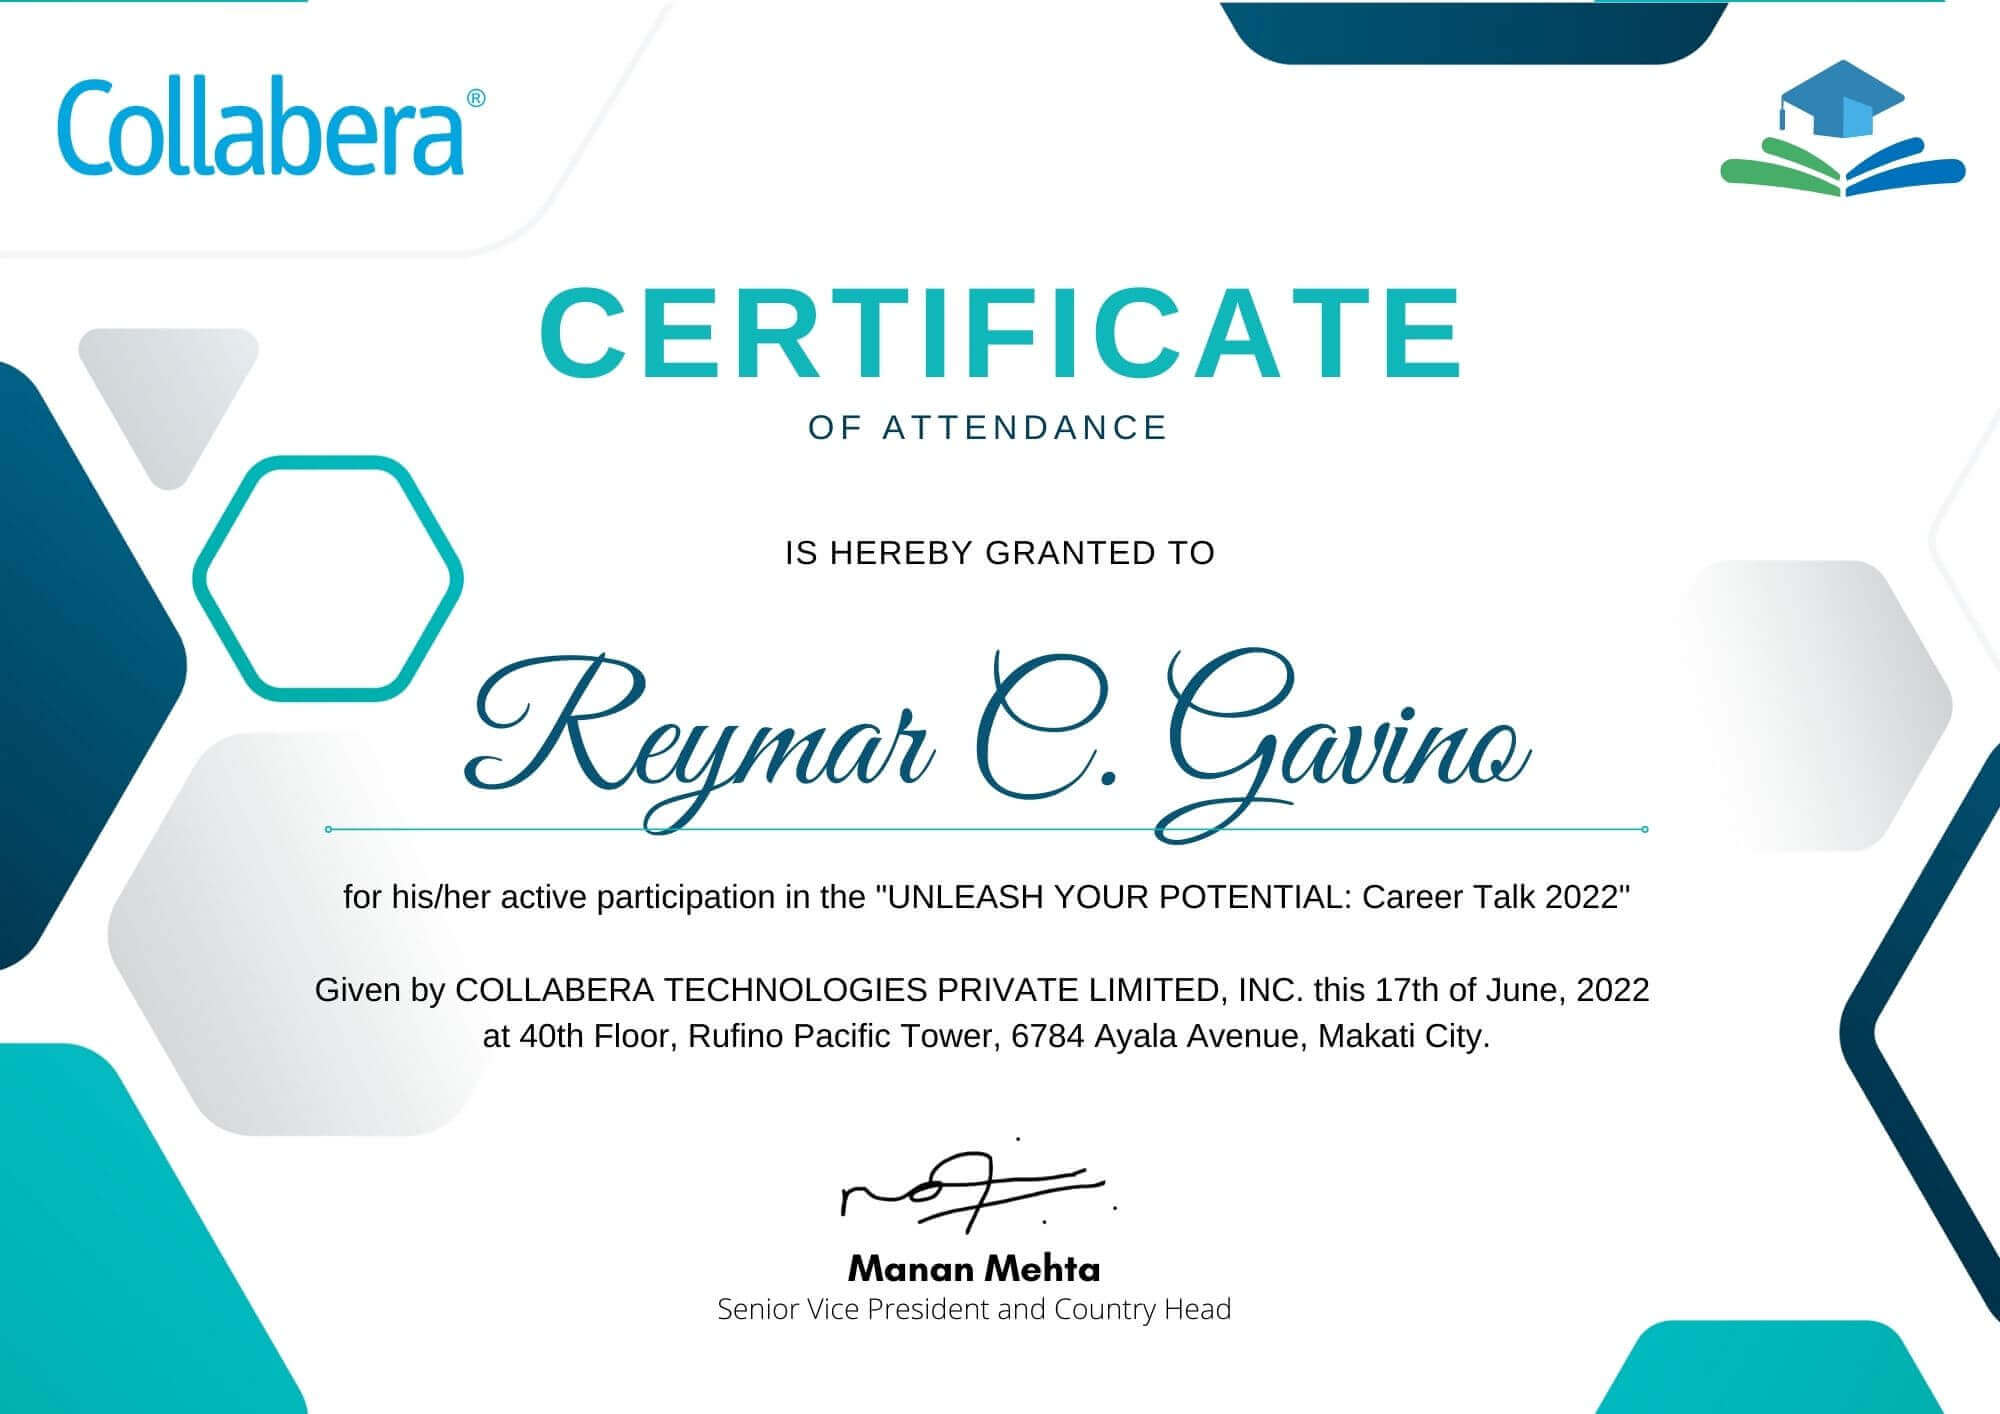
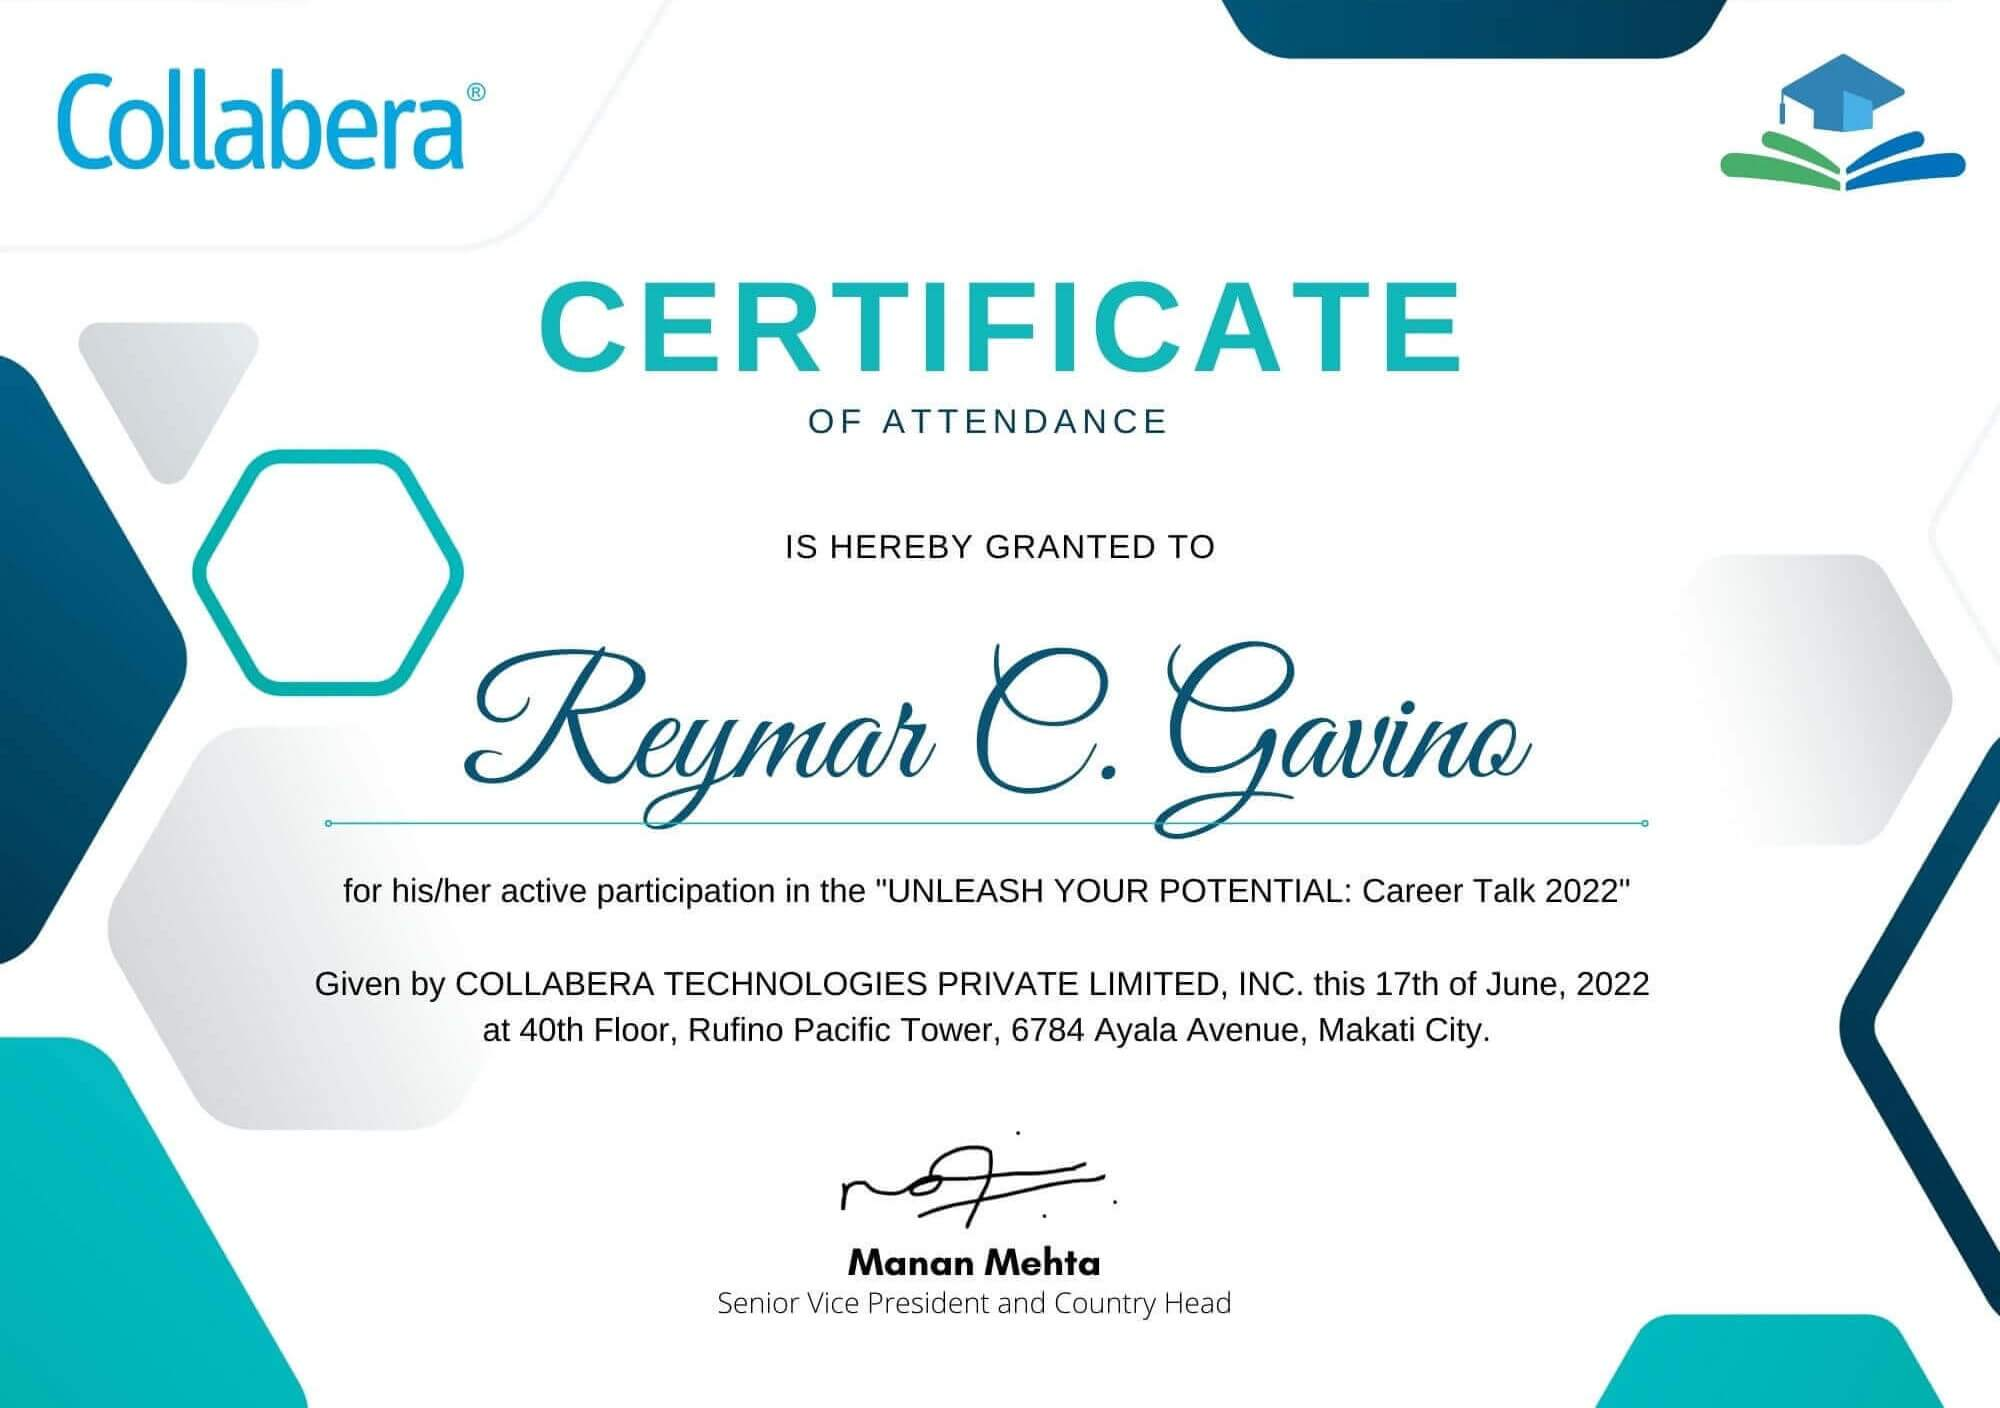
Updated

diff --git a/index.html b/index.html
@@ -92,7 +92,8 @@
                     <a href="https://x.com/gavino_reymar/" target="_blank" class="icon icon-twitter">
                         <i class="fa-brands fa-twitter icon-plain"></i>
                     </a>
-                    <a href="https://www.linkedin.com/in/reymar-gavino-b2a21b248/" target="_blank" class="icon icon-linkedin">
+                    <a href="https://www.linkedin.com/in/reymar-gavino-b2a21b248/" target="_blank"
+                        class="icon icon-linkedin">
                         <i class="fa-brands fa-linkedin-in icon-plain"></i>
                     </a>
                     <a href="mailto:reymarcastrogavino@gmail.com/" class="icon icon-gmail">
@@ -171,7 +172,8 @@
                         <a href="https://x.com/gavino_reymar/" target="_blank" class="icon-box twitter">
                             <i class="fa-brands fa-twitter icon-background"></i>
                         </a>
-                        <a href="https://www.linkedin.com/in/reymar-gavino-b2a21b248/" target="_blank" class="icon-box linkedin">
+                        <a href="https://www.linkedin.com/in/reymar-gavino-b2a21b248/" target="_blank"
+                            class="icon-box linkedin">
                             <i class="fa-brands fa-linkedin-in icon-background"></i>
                         </a>
                         <a href="mailto:reymarcastrogavino@gmail.com/" target="_blank" class="icon-box envelope">
@@ -265,7 +267,7 @@
                     <div>
                         <h4>Primary School</h4>
                         <h5>2007 - 2013</h5>
-                        <h5>Km5 Pico Rd, La Trinidad, Benguet</h5>
+                        <h5>Tomay, La Trinidad, Benguet</h5>
                         <p>
                             Saint Therese School of Tomay Inc.
                         </p>
@@ -289,7 +291,7 @@
                         width="100%">
                 </div>
                 <div class="certicate-container" data-aos="fade-up" data-aos-duration="1000" data-aos-delay="700">
-                    <img id="certificate" src="./asset/images/career-talk.jpg" loading="lazy" alt="Certificate"
+                    <img id="certificate" src="./asset/images//techno.png" loading="lazy" alt="Certificate"
                         width="100%">
                 </div>
             </div>
@@ -379,23 +381,24 @@
         </section>
         <!-- Footer -->
         <footer>
-            <p class="dev" data-aos="fade-up" data-aos-duration="1000" data-aos-delay="400"><span>©</span> 2023
+            <p class="dev"><span>©</span> 2023
                 Front-end Web Developer</p>
-            <div class="footer-icon" data-aos="fade-up" data-aos-duration="1000" data-aos-delay="400">
+            <div class="footer-icon">
                 <a href="https://www.facebook.com/reymar.gavino/" target="_blank" class="icon icon-facebook">
                     <i class="fa-brands fa-facebook-f icon-plain"></i>
                 </a>
                 <a href="https://x.com/gavino_reymar/" target="_blank" class="icon icon-twitter">
                     <i class="fa-brands fa-twitter icon-plain"></i>
                 </a>
-                <a href="https://www.linkedin.com/in/reymar-gavino-b2a21b248/" target="_blank" class="icon icon-linkedin">
+                <a href="https://www.linkedin.com/in/reymar-gavino-b2a21b248/" target="_blank"
+                    class="icon icon-linkedin">
                     <i class="fa-brands fa-linkedin-in icon-plain"></i>
                 </a>
                 <a href="mailto:reymarcastrogavino@gmail.com/" target="_blank" class="icon icon-gmail">
                     <i class="fa-solid fa-envelope icon-plain"></i>
                 </a>
             </div>
-            <p class="create" data-aos="fade-up" data-aos-duration="1000" data-aos-delay="400">Created by <span>Reymar
+            <p class="create">Created by <span>Reymar
                     Gavino</span></p>
         </footer>
     </div>

diff --git a/style/styles.css b/style/styles.css
@@ -260,7 +260,7 @@ header {
     min-height: 100vh;
     background: url(../asset/images/banner.jpg) center no-repeat;
     background-size: cover;
-    padding: 79px 10px 0;
+    padding: 79px 20px 0;
     overflow: hidden;
     background-attachment: fixed;
 }
@@ -286,7 +286,6 @@ header .off-screen-menu {
     top: 0;
     left: 0;
     right: 0;
-    padding: 25px 10px 10px;
     transition: all .3s ease;
 }
 
@@ -419,7 +418,7 @@ header .off-screen-menu {
 .about {
     max-width: 1350px;
     margin: auto;
-    padding: 100px 10px;
+    padding: 100px 20px;
     overflow: hidden;
 }
 
@@ -498,7 +497,7 @@ header .off-screen-menu {
 .resume {
     max-width: 1125px;
     margin: auto;
-    padding: 100px 10px;
+    padding: 100px 20px;
     overflow: hidden;
 }
 
@@ -595,7 +594,7 @@ header .off-screen-menu {
 /* Section 3 */
 .certificate {
     background-color: var(--black);
-    padding: 100px 10px;
+    padding: 100px 20px;
     overflow: hidden;
 }
 
@@ -618,6 +617,7 @@ header .off-screen-menu {
 
 .certificate .certicate-container {
     max-width: 400px;
+    border-radius: 10px;
     height: auto;
     overflow: hidden;
     transition: all 0.3s ease;
@@ -625,7 +625,6 @@ header .off-screen-menu {
 
 .certificate .certicate-container:hover {
     cursor: pointer;
-    border-radius: 10px;
 }
 
 #certificate {
@@ -745,7 +744,7 @@ header .off-screen-menu {
 /* Section 4 */
 .project {
     overflow: hidden;
-    padding: 100px 20px;
+    padding: 100px 30px;
 }
 
 .project>.container {
@@ -799,9 +798,9 @@ header .off-screen-menu {
 }
 
 .project .container>div {
-    box-shadow: 0px 0px 10px 0px rgba(0, 0, 0, 0.63);
-    -webkit-box-shadow: 0px 0px 10px 0px rgba(0, 0, 0, 0.63);
-    -moz-box-shadow: 0px 0px 10px 0px rgba(0, 0, 0, 0.63);
+    box-shadow: 0px 0px 10px 0px rgba(156, 156, 156, 0.75);
+    -webkit-box-shadow: 0px 0px 10px 0px rgba(156, 156, 156, 0.75);
+    -moz-box-shadow: 0px 0px 10px 0px rgba(156, 156, 156, 0.75);
     border-radius: 20px;
 }
 
@@ -832,7 +831,7 @@ header .off-screen-menu {
     background: url(../asset/images/plastercraft_architects.jpg) center top no-repeat;
     background-size: cover;
     border: 1px solid var(--black);
-    transition: all 16s ease;
+    transition: background-position 16s ease;
 }
 
 .project .first-project .project-slide:hover {
@@ -851,7 +850,7 @@ header .off-screen-menu {
     background: url(../asset/images/xtremecarpetsalem.jpg) center top no-repeat;
     background-size: cover;
     border: 1px solid var(--black);
-    transition: all 14s ease;
+    transition: background-position 14s ease;
 }
 
 .project .second-project .project-slide:hover {
@@ -862,7 +861,7 @@ header .off-screen-menu {
 /* Section 5 */
 .hire {
     background-color: var(--black);
-    padding: 100px 10px 100px;
+    padding: 100px 20px 100px;
     overflow: hidden;
 }
 
@@ -903,16 +902,16 @@ header .off-screen-menu {
 
 /* Section 6 */
 .contact {
-    padding: 100px 20px;
+    padding: 100px 30px;
     overflow: hidden;
 }
 
 .contact .content {
     max-width: 1000px;
     margin: auto;
-    box-shadow: 0px 0px 10px 0px rgba(0, 0, 0, 0.63);
-    -webkit-box-shadow: 0px 0px 10px 0px rgba(0, 0, 0, 0.63);
-    -moz-box-shadow: 0px 0px 10px 0px rgba(0, 0, 0, 0.63);
+    box-shadow: 0px 0px 10px 0px rgba(156, 156, 156, 0.75);
+    -webkit-box-shadow: 0px 0px 10px 0px rgba(156, 156, 156, 0.75);
+    -moz-box-shadow: 0px 0px 10px 0px rgba(156, 156, 156, 0.75);
     border-radius: 20px;
     padding: 60px 50px;
 }
@@ -992,7 +991,7 @@ header .off-screen-menu {
 
 /* Footer */
 footer {
-    padding: 60px 10px;
+    padding: 60px 20px;
     background: var(--black);
     overflow: hidden;
 }
@@ -1650,10 +1649,6 @@ footer .create span {
     .certificate .next {
         padding: 5px;
         font-size: 16px;
-    }
-
-    .certificate .close {
-        font-size: 30px;
     }
 
     /* Section 4 */

diff --git a/scripts/script.js b/scripts/script.js
@@ -22,9 +22,9 @@ hamMenu.addEventListener("click", () => {
 // Navigation OnScroll
 function onScroll() {
   if (document.body.scrollTop > 25 || document.documentElement.scrollTop > 25) {
-    document.getElementById("scroll").style.padding = "10px 10px 10px";
+    document.getElementById("scroll").style.padding = "10px 20px 10px";
     document.getElementById("scroll").style.backgroundColor = "#fff";
-    document.getElementById("scroll").style.boxShadow = "0px 0px 10px 0px rgba(0, 0, 0, 0.63)";
+    document.getElementById("scroll").style.boxShadow = "0px 0px 10px 0px rgba(156, 156, 156, 0.75)";
     document.getElementById("logo-text").style.color = "#000";
     document.querySelectorAll("#menu-text").forEach(function (element) {
       element.style.color = "#000";
@@ -33,7 +33,7 @@ function onScroll() {
       element.style.backgroundColor = "#000";
     });
   } else {
-    document.getElementById("scroll").style.padding = "25px 10px 10px";
+    document.getElementById("scroll").style.padding = "25px 20px 10px";
     document.getElementById("scroll").style.backgroundColor = "transparent";
     document.getElementById("scroll").style.boxShadow = "none";
     document.getElementById("logo-text").style.color = "#fff";
